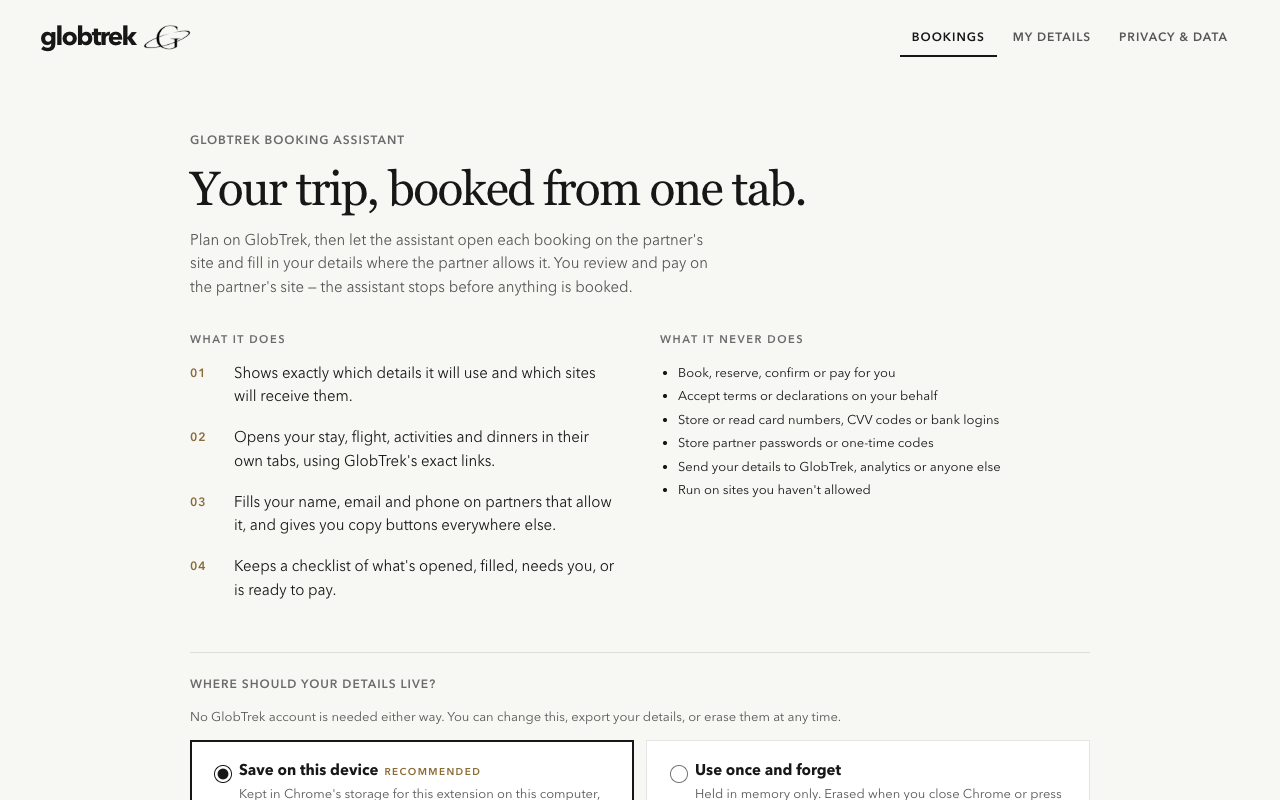
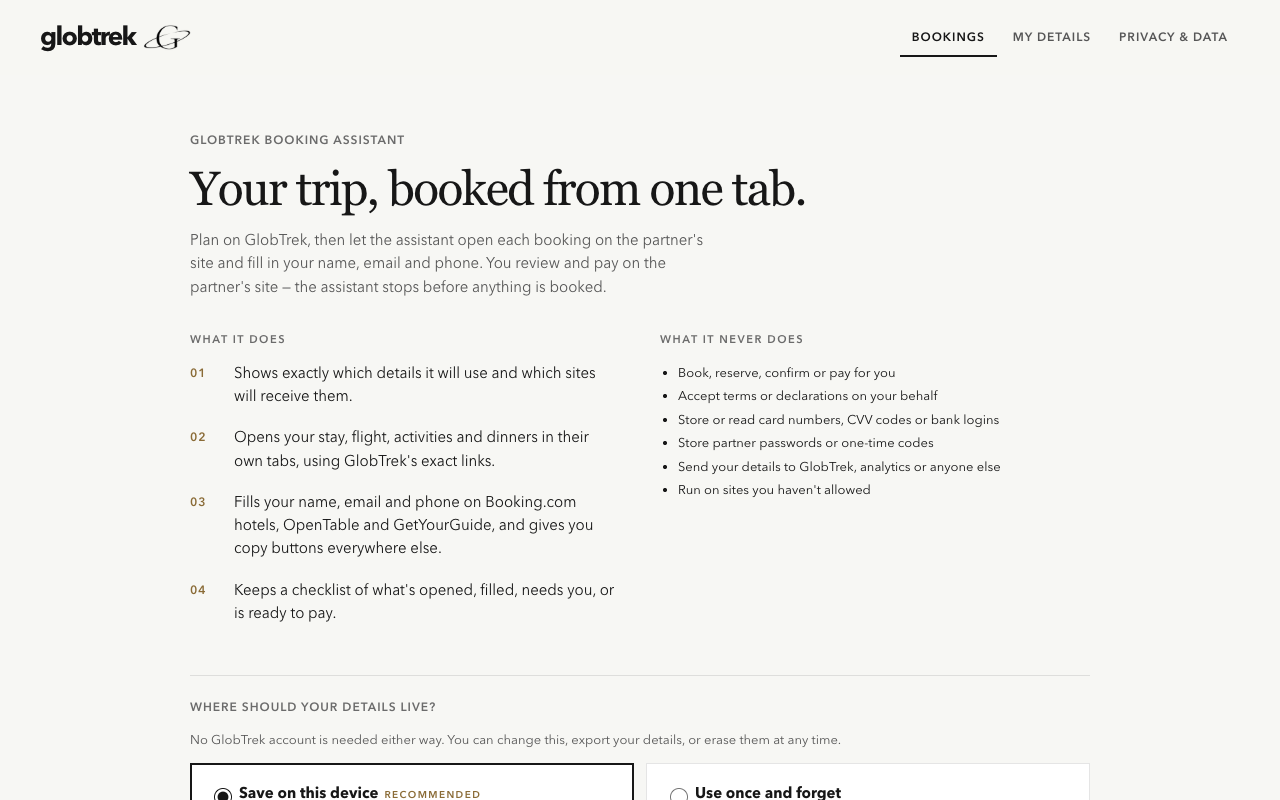
Turn on Booking.com and OpenTable autofill (assistant 0.3.0)
Owner's decision, accepting the partner-terms risk: name, email, phone and
the optional note fill on Booking.com hotel checkout and OpenTable diner
details. Nothing submits, ticks terms or touches payment. Booking.com no
longer fills address or arrival time. Opening from the website without site
access now shows Opened with a Fill prompt instead of Needs attention.

diff --git a/app/booking-assistant/page.jsx b/app/booking-assistant/page.jsx
@@ -5,7 +5,7 @@ import { AFFILIATE_DISCLOSURE } from "../lib/site";
 
 export const metadata = {
   title: "Booking Assistant for Chrome",
-  description: "Book your whole GlobTrek trip from one tab: the assistant opens each booking on the partner's site and fills your details where the partner allows it. You review and pay on their site.",
+  description: "Book your whole GlobTrek trip from one tab: the assistant opens each booking on the partner's site and fills in your name, email and phone. You review and pay on their site.",
   alternates: { canonical: "/booking-assistant" },
 };
 
@@ -13,14 +13,14 @@ const STEPS = [
   ["Plan on GlobTrek", "Choose your stay, flight, activities and dinners. Nothing changes about how you plan."],
   ["Choose Book my trip", "The assistant opens next to GlobTrek and shows exactly which details it will use and which sites will receive them."],
   ["Enter your details once", "Names, email and phone, the things a booking form asks for. Saved on your computer, or used once and forgotten."],
-  ["Open, fill, review", "Each booking opens with GlobTrek's exact link. Where the partner allows it, your details are filled in; everywhere else, copy buttons do it in a click."],
+  ["Open, fill, review", "Each booking opens with GlobTrek's exact link. Your name, email and phone are filled in on Booking.com hotels, OpenTable and GetYourGuide; everywhere else, copy buttons do it in a click."],
   ["You pay the partner", "The assistant stops before anything is booked. Review and pay on the partner's site, then tick it off."],
 ];
 
 const PARTNERS = [
   ["GetYourGuide activities", "Fills lead-traveler name, email, phone and notes on the checkout page.", "Fills details"],
-  ["Booking.com stays, flights and attractions", "Opens GlobTrek's exact link with your dates and party size. Booking.com's terms don't allow automated assistants without permission, so the assistant gives you copy buttons instead.", "Copy buttons"],
-  ["OpenTable dinners", "Opens the restaurant with your party size. OpenTable's terms don't allow browser assistants, so you get copy buttons.", "Copy buttons"],
+  ["Booking.com stays, flights and attractions", "Opens GlobTrek's exact link with your dates and party size. On the hotel’s “Enter your details” step, your name, email and phone are filled in. Flights and attractions get copy buttons.", "Fills hotel details"],
+  ["OpenTable dinners", "Opens the restaurant on your date, time and party size, then fills your name, email and phone on the diner details step.", "Fills your details"],
 ];
 
 export default function BookingAssistantPage() {
@@ -31,7 +31,7 @@ export default function BookingAssistantPage() {
         <div>
           <p className="eyebrow">GlobTrek Booking Assistant · for Chrome</p>
           <h1 className="mt-5 font-serif text-[clamp(2.8rem,7vw,5.6rem)] leading-[.92] tracking-tight-3">Book your whole trip from one tab.</h1>
-          <p className="mt-6 max-w-2xl text-lg leading-8 text-muted">A small Chrome extension that opens every booking from your GlobTrek trip and fills in your details where the partner allows it. You stay in control: it never books, accepts terms or pays for you.</p>
+          <p className="mt-6 max-w-2xl text-lg leading-8 text-muted">A small Chrome extension that opens every booking from your GlobTrek trip and fills in your name, email and phone. You stay in control: it never books, accepts terms or pays for you.</p>
         </div>
         <div id="install" className="scroll-mt-24 border border-black/15 bg-surface p-6 sm:p-7">
           <p className="text-micro uppercase tracking-label text-black/55">Install</p>
@@ -77,7 +77,7 @@ export default function BookingAssistantPage() {
 
     <section className="mx-auto max-w-[1180px] px-6 py-[var(--section-space)] sm:px-8">
       <h2 className="font-serif text-[clamp(1.9rem,3.5vw,2.8rem)] leading-none tracking-tight-2">What it fills today</h2>
-      <p className="mt-4 max-w-2xl text-sm leading-6 text-muted">We follow each partner&apos;s rules. Where a partner doesn&apos;t allow automated filling, the assistant opens the exact link and puts your details one click away.</p>
+      <p className="mt-4 max-w-2xl text-sm leading-6 text-muted">Where the assistant can&apos;t fill a page, it opens the exact link and puts your details one click away.</p>
       <ul className="mt-8 divide-y divide-black/12 border-y border-black/12">
         {PARTNERS.map(([name, body, tag]) => <li key={name} className="grid gap-2 py-5 sm:grid-cols-[1fr_2fr_auto] sm:items-baseline sm:gap-8"><p className="font-medium">{name}</p><p className="text-sm leading-6 text-muted">{body}</p><p className="text-micro uppercase tracking-label">{tag}</p></li>)}
       </ul>

diff --git a/extension/src/adapters/booking.ts b/extension/src/adapters/booking.ts
@@ -2,23 +2,21 @@ import type { Adapter } from "./types.ts";
 
 // Booking.com accommodation checkout ("Enter your details" step of book.html).
 //
-// DISABLED on the live site. Booking.com's Customer Terms of Service (A15.2,
-// reviewed 2026-11-09, US page updated 25 Aug 2025) say Booking.com "does not
-// authorize the use of automated means", explicitly including automated
-// assistants that operate through the customer's browser, "to make bookings or
-// reservations" without its prior written permission. Until GlobTrek has that
-// permission in writing, travelers get the exact CJ deep link plus copy buttons.
-// The field map below is kept, versioned and tested against sanitized fixtures so
-// the adapter can be switched on the day permission is granted — after its
-// selectors are re-verified on a live checkout by a person.
+// ENABLED on the live site by the owner's decision (2026-11-20), knowing that
+// Booking.com's Customer Terms (A15.2) say it "does not authorize the use of
+// automated means", including browser assistants, "to make bookings or
+// reservations" without prior written permission. The assistant only fills the
+// traveler's own details on the "Enter your details" step after the traveler
+// asks; it never chooses a room, ticks terms, submits, or touches payment.
+// Selectors are tested against sanitized fixtures; re-check them on a live
+// checkout when Booking.com changes its form.
 export const bookingAdapter: Adapter = {
   id: "booking",
   name: "Booking.com",
   selectorsVersion: "2026-11-09.1",
   hosts: ["www.booking.com", "secure.booking.com"],
   policy: {
-    autofill: false,
-    reason: "Booking.com asks that you fill in its forms yourself, so your details are one click away below.",
+    autofill: true,
     termsUrl: "https://www.booking.com/content/terms.html",
     reviewedOn: "2026-11-09",
   },
@@ -35,12 +33,7 @@ export const bookingAdapter: Adapter = {
     { key: "contact.email", selectors: ["input#email", "input[name='email']", "input[autocomplete='email']:not([name*='confirm'])"] },
     { key: "contact.email", selectors: ["input#email_confirm", "input[name='email_confirm']"] },
     { key: "contact.phone", selectors: ["input#phone", "input[name='phone']", "input[autocomplete='tel']"] },
-    { key: "contact.addressLine1", selectors: ["input#address1", "input[name='address1']", "input[autocomplete='address-line1']"], optional: true },
-    { key: "contact.city", selectors: ["input#city", "input[name='city']", "input[autocomplete='address-level2']"], optional: true },
-    { key: "contact.postalCode", selectors: ["input#zip", "input[name='zip']", "input[autocomplete='postal-code']"], optional: true },
-    { key: "contact.country", selectors: ["select#cc1", "select[name='cc1']", "select[autocomplete='country']"], control: "select", match: "country", optional: true },
     { key: "stay.specialRequests", selectors: ["textarea#remarks", "textarea[name='remarks']"], control: "textarea", optional: true },
-    { key: "stay.arrivalHour", selectors: ["select#checkin_eta_hour", "select[name='checkin_eta_hour']"], control: "select", match: "hour", optional: true },
   ],
   unsupported: [
     { label: "Room selection and price", reason: "You choose the room and see the live price on Booking.com." },

diff --git a/extension/src/ui/views/welcome.ts b/extension/src/ui/views/welcome.ts
@@ -19,7 +19,7 @@ export async function renderWelcome({ root, state, navigate }: ViewContext): Pro
     h("div", { class: "stack" },
       h("p", { class: "eyebrow" }, "GlobTrek Booking Assistant"),
       h("h1", { class: "display" }, "Your trip, booked from one tab."),
-      h("p", { class: "muted", style: "max-width: 60ch" }, "Plan on GlobTrek, then let the assistant open each booking on the partner's site and fill in your details where the partner allows it. You review and pay on the partner's site — the assistant stops before anything is booked."),
+      h("p", { class: "muted", style: "max-width: 60ch" }, "Plan on GlobTrek, then let the assistant open each booking on the partner's site and fill in your name, email and phone. You review and pay on the partner's site — the assistant stops before anything is booked."),
     ),
     h("div", { class: "grid-2", style: "gap: 28px 40px" },
       h("section", { "aria-labelledby": "does" },
@@ -27,7 +27,7 @@ export async function renderWelcome({ root, state, navigate }: ViewContext): Pro
         h("ol", { class: "steps", style: "margin-top: 14px" },
           h("li", null, "Shows exactly which details it will use and which sites will receive them."),
           h("li", null, "Opens your stay, flight, activities and dinners in their own tabs, using GlobTrek's exact links."),
-          h("li", null, "Fills your name, email and phone on partners that allow it, and gives you copy buttons everywhere else."),
+          h("li", null, "Fills your name, email and phone on Booking.com hotels, OpenTable and GetYourGuide, and gives you copy buttons everywhere else."),
           h("li", null, "Keeps a checklist of what's opened, filled, needs you, or is ready to pay."),
         ),
       ),

diff --git a/extension/src/background/index.ts b/extension/src/background/index.ts
@@ -147,7 +147,9 @@ async function fillItem(sessionId: string, itemId: string, passportsInput: unkno
   }
   const tab = await chrome.tabs.get(item.tabId).catch(() => null);
   if (!tab?.url) {
-    return changeItem(sessionId, itemId, { status: "needs_attention", note: automatic ? null : "The assistant needs your permission for this site, or the tab was closed." });
+    // Chrome hides the URL until the traveler allows the site; opened from the website there's no click to ask with.
+    if (automatic) return changeItem(sessionId, itemId, { status: "opened", note: `Press Fill this page to let the assistant fill ${adapter.name} for you.` });
+    return changeItem(sessionId, itemId, { status: "needs_attention", note: "The assistant needs your permission for this site, or the tab was closed." });
   }
   const tabUrl = new URL(tab.url);
   const onFixture = IS_DEV && tabUrl.origin === DEV_FIXTURE_ORIGIN && tabUrl.pathname.startsWith(`/${adapter.id}/`);
@@ -155,6 +157,8 @@ async function fillItem(sessionId: string, itemId: string, passportsInput: unkno
     return automatic ? session : changeItem(sessionId, itemId, { status: "opened", note: `Still on the way to ${adapter.name}. Press Fill once the page has loaded.` });
   }
   if (!(await hasHostAccess(tab.url))) {
+    // Opened from the website there's no click to ask Chrome for access, so leave it calm and point at Fill.
+    if (automatic) return changeItem(sessionId, itemId, { status: "opened", note: `Press Fill this page to let the assistant fill ${adapter.name} for you.` });
     return changeItem(sessionId, itemId, { status: "needs_attention", note: `Allow the assistant on ${adapter.name} to fill this page.` });
   }
   const profile = await loadProfile(areas);

diff --git a/extension/src/shared/partners.ts b/extension/src/shared/partners.ts
@@ -19,7 +19,7 @@ export interface PartnerInfo {
 export const PARTNERS: readonly PartnerInfo[] = [
   { id: "booking", name: "Booking.com", domains: ["booking.com"], originPatterns: ["https://www.booking.com/*", "https://secure.booking.com/*"], hasAdapter: true },
   { id: "getyourguide", name: "GetYourGuide", domains: ["getyourguide.com"], originPatterns: ["https://www.getyourguide.com/*"], hasAdapter: true },
-  { id: "opentable", name: "OpenTable", domains: ["opentable.com", "opentable.co.uk", "opentable.ca", "opentable.com.au", "opentable.de", "opentable.ie", "opentable.jp", "opentable.com.mx"], originPatterns: ["https://www.opentable.com/*"], hasAdapter: true },
+  { id: "opentable", name: "OpenTable", domains: ["opentable.com", "opentable.co.uk", "opentable.ca", "opentable.com.au", "opentable.de", "opentable.ie", "opentable.jp", "opentable.com.mx"], originPatterns: ["https://www.opentable.com/*", "https://www.opentable.co.uk/*", "https://www.opentable.ca/*", "https://www.opentable.com.au/*", "https://www.opentable.de/*", "https://www.opentable.ie/*"], hasAdapter: true },
   // GlobTrek's own (future) Duffel-powered checkout; the site is already a content-script host.
   { id: "globtrek-flights", name: "GlobTrek flight checkout", domains: ["glob-trek.com"], originPatterns: [], hasAdapter: true },
   { id: "reservation-platform", name: "Restaurant reservation site", domains: ["resy.com", "exploretock.com", "sevenrooms.com", "thefork.com", "thefork.co.uk", "thefork.it", "thefork.fr", "thefork.es", "quandoo.com", "quandoo.de", "quandoo.co.uk"], originPatterns: [], hasAdapter: false },

diff --git a/extension/src/adapters/opentable.ts b/extension/src/adapters/opentable.ts
@@ -2,20 +2,18 @@ import type { Adapter } from "./types.ts";
 
 // OpenTable reservation details ("Diner details").
 //
-// DISABLED on the live site. OpenTable's Terms of Use (reviewed 2026-11-09) bar
-// using "automated assistants" or AI that "operate by interacting with or
-// otherwise making use of your browser" to access any portion of the Services.
-// The assistant opens the exact OpenTable link (party size pre-filled by
-// GlobTrek) and offers copy buttons. GlobTrek's pending OpenTable partner
-// application (docs/opentable.md) is the route to an approved flow.
+// ENABLED on the live site by the owner's decision (2026-11-20), knowing that
+// OpenTable's Terms of Use bar "automated assistants" that operate through the
+// user's browser. The assistant only fills the diner's own name, phone and email
+// on the "Diner details" step; it never picks a time, opts into marketing,
+// enters a card hold, or completes the reservation.
 export const openTableAdapter: Adapter = {
   id: "opentable",
   name: "OpenTable",
   selectorsVersion: "2026-11-09.1",
   hosts: ["www.opentable.com", "www.opentable.co.uk", "www.opentable.ca", "www.opentable.com.au", "www.opentable.de", "www.opentable.ie"],
   policy: {
-    autofill: false,
-    reason: "OpenTable asks that you fill in its forms yourself, so your details are one click away below.",
+    autofill: true,
     termsUrl: "https://www.opentable.com/legal/terms-and-conditions",
     reviewedOn: "2026-11-09",
   },

diff --git a/extension/tests/session.test.ts b/extension/tests/session.test.ts
@@ -26,13 +26,12 @@ test("a session keeps exact URLs, knows each partner, and applies partner policy
   assert.equal(byId["hotel-0"]!.url, CJ_HOTEL, "CJ link untouched");
   assert.equal(byId["hotel-0"]!.partnerName, "Booking.com");
   assert.equal(byId["hotel-0"]!.affiliate, true);
-  assert.equal(byId["hotel-0"]!.autofill, false, "Booking.com autofill is off pending written permission");
-  assert.match(byId["hotel-0"]!.autofillNote!, /fill in its forms yourself/);
+  assert.equal(byId["hotel-0"]!.autofill, true, "Booking.com guest details are filled (owner's decision, 2026-11-20)");
   assert.equal(byId["flight-0"]!.partnerName, "Booking.com", "Booking.com Flights via CJ: deep link + copy");
   assert.equal(byId["experience-0"]!.autofill, true);
-  assert.equal(byId["restaurant-0"]!.autofill, false);
+  assert.equal(byId["restaurant-0"]!.autofill, true);
   assert.ok(session.items.every((item) => item.status === "not_started"));
-  assert.deepEqual(session.requiredFields.sort(), ["activity.comments", "contact.email", "contact.phoneCountryCode", "contact.phoneNational", "lead.firstName", "lead.lastName"]);
+  assert.deepEqual(session.requiredFields.sort(), ["activity.comments", "contact.email", "contact.phone", "contact.phoneCountryCode", "contact.phoneNational", "dining.specialRequests", "lead.firstName", "lead.lastName", "stay.specialRequests"]);
 });
 
 function report(partial: Partial<FillReport>): FillReport {

diff --git a/extension/tests/contract.test.ts b/extension/tests/contract.test.ts
@@ -30,7 +30,7 @@ test("the website's Book my trip payload passes the extension's strict validator
   // Today the site routes every paid activity through Booking.com Attractions (CJ), so
   // even a GetYourGuide provider link arrives as Booking.com. Only OpenTable stays separate.
   assert.deepEqual(session.items.map((item) => item.partnerName).sort(), ["Booking.com", "Booking.com", "Booking.com", "Booking.com", "OpenTable"]);
-  assert.ok(session.items.every((item) => !item.autofill), "no live partner in today's trips allows autofill");
+  assert.ok(session.items.every((item) => item.autofill), "every partner in today's trips gets the traveler's details filled");
   const gyg = assistantTrip({ entries: [{ type: "experience", name: "Sintra", exactUrl: "https://www.getyourguide.com/lisbon-l42/sintra-t1234/" }], city: "Lisbon", adults: 2 });
   const accepted = validateWebRequest({ channel: CHANNEL, v: 1, kind: "request", requestId: "r0123456789abcdef", type: "START_SESSION", trip: gyg });
   assert.equal(accepted.type === "START_SESSION" && createSession(accepted.trip, { origin: "https://www.glob-trek.com", sourceTabId: 1 }).items[0]!.autofill, true);

diff --git a/extension/src/ui/views/session.ts b/extension/src/ui/views/session.ts
@@ -165,7 +165,7 @@ export async function renderSession({ root, state, navigate }: ViewContext, sess
       h("h2", { id: "preflight", class: "title" }, "Before anything opens"),
       partners.length
         ? h("p", { class: "small muted" }, `These details will be typed into ${partners.join(", ")} — only on pages you open, and only into the form you're looking at:`)
-        : h("p", { class: "small muted" }, "None of this trip's partners allow automated filling, so nothing will be typed for you. Each booking opens with GlobTrek's exact link, and copy buttons put your details one click away."),
+        : h("p", { class: "small muted" }, "None of this trip's bookings have a form the assistant fills, so nothing will be typed for you. Each booking opens with GlobTrek's exact link, and copy buttons put your details one click away."),
       partners.length ? h("dl", { class: "grid-2 small", style: "margin: 0" }, keys.map((key) => h("div", null,
         h("dt", { class: "subtle" }, FIELD_LABELS[key]),
         h("dd", { style: "margin: 2px 0 0" }, values[key] ? values[key] : h("span", { class: "subtle" }, "Not in your profile — left blank")),

diff --git a/extension/tests/engine.test.ts b/extension/tests/engine.test.ts
@@ -30,15 +30,13 @@ test("Booking.com fixture: every mapped field fills; terms, password and hidden 
   assert.equal(get("#email"), "ana@example.com");
   assert.equal(get("#email_confirm"), "ana@example.com");
   assert.equal(get("#phone"), "+351 912 345 678");
-  assert.equal(get("#address1"), "Rua Augusta 1");
-  assert.equal(get("#zip"), "1100-048");
-  assert.equal(get("#cc1"), "pt");
-  assert.equal(get("#checkin_eta_hour"), "15");
+  // Only name, email, phone and the note: GlobTrek doesn't ask for an address or arrival time.
+  assert.equal(get("#address1"), "");
   assert.match(get("#remarks"), /King bed/);
   assert.equal((document.querySelector("[name=agree_terms]") as HTMLInputElement).checked, false);
   assert.equal(get("#account_password"), "");
   assert.equal(get("[name=hotel_id]"), "fixture");
-  assert.equal(report.filled.length, 11);
+  assert.equal(report.filled.length, 6);
   assert.deepEqual(report.skipped, []);
   assert.deepEqual(events.filter((event) => event === "submit" || event === "click:BUTTON"), []);
   assert.equal(document.body.dataset.submitted, undefined);

diff --git a/extension/src/session/manager.ts b/extension/src/session/manager.ts
@@ -71,7 +71,7 @@ export function createSession(trip: TripPayload, { origin, sourceTabId, dev = fa
       affiliate: classified.affiliate,
       fixture: classified.fixture,
       autofill: allowed,
-      autofillNote: adapter && !allowed ? adapter.policy.reason : adapter ? null : `GlobTrek doesn't fill forms on ${classified.partner.name}. Use the copy buttons.`,
+      autofillNote: adapter && !allowed ? (adapter.policy.reason ?? "Use the copy buttons for this booking.") : adapter ? null : `GlobTrek doesn't fill forms on ${classified.partner.name}. Use the copy buttons.`,
       status: "not_started",
       tabId: null,
       note: null,

diff --git a/extension/src/background/demo.ts b/extension/src/background/demo.ts
@@ -18,7 +18,7 @@ export const DEMO_TRIP: TripPayload = {
 
 // Development builds only, for store screenshots: production behaviour on a realistic
 // trip. The stay and dinner use real partner links (Booking.com via GlobTrek's CJ link,
-// OpenTable) whose autofill is off; the activity uses the GetYourGuide fixture.
+// OpenTable); the activity uses the GetYourGuide fixture.
 export const SHOWCASE_TRIP: TripPayload = {
   tripId: "dev-showcase",
   destination: { city: "Lisbon", country: "Portugal" },
